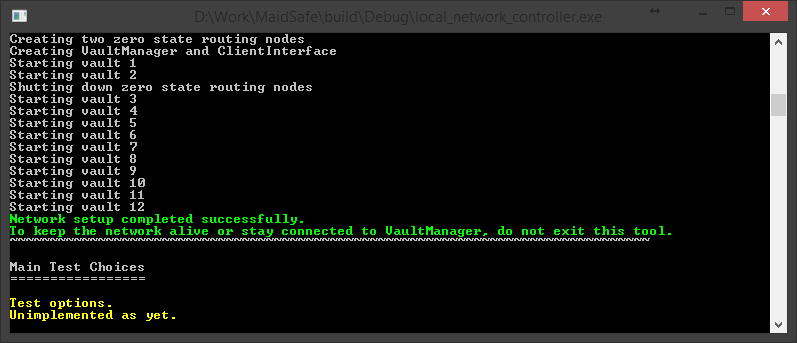
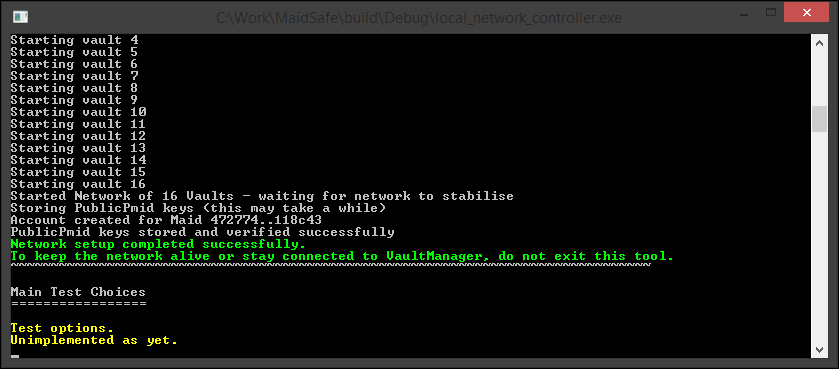
Updated local network controller images and added bootstrap options to auth example docs.

Changed region(s): [[0.0, 0.0, 1.0, 1.0], [0.0, 0.758, 0.1807, 0.8455], [0.0, 0.8746, 0.2108, 0.9329]]

diff --git a/gitbook_src/en/002_self_authentication/requirements.md b/gitbook_src/en/002_self_authentication/requirements.md
@@ -1,22 +1,13 @@
 # Requirements
 
 
-### API Project Libraries & local_network_controller:
+### API Project:
 
+Please refer to the [Network Setup - Requirements](./../001_network_setup/requirements.md) to get your build environment set up for the MaidSafe Super-Project.
 
-Please refer to the [Network Setup - Requirements](001_network_setup/requirements.md) to get your build environment set up for the MaidSafe Super-Project.
+This example requires the following target to be built from the MaidSafe Super-Project.
 
-This example requires two targets to be built from the MaidSafe Super-Project.
-
-* `maidsafe_api` - This will get the API project library built and ready to use from any external project
-* `local_network_controller` - As seen in the Network Setup example, this target currently helps us run a local test network on a single machine we can use for examples to run on and function.
-
-
-Make sure to have the `local_network_controller` up and running. You should leave it running with the following message displayed
-
-
-<Image>
-
+* `maidsafe_api` - This will get the API project library built and ready to use from any external project.
 
 
 ### [MaidSafe-Examples](https://github.com/maidsafe/maidsafe-examples) Source Code
@@ -28,3 +19,34 @@ Now from somewhere outside the Examples project root we need to run:
     cmake -H<path to MaidSafe-Examples/code> -Bbuild_maidsafe_examples -DMAIDSAFE_BINARY_DIR=<path to maidsafe Super-Project build folder>
 
 Go ahead and build the `authentication` target from the examples project.
+
+
+# Network Options
+
+### Connect to the MaidSafe Testnet
+
+Requires no setup for now (yay!). This is currently the default option that any client code will use until the network is live. Testnet bootstrap endpoints are hardcoded in the submodule libraries to achieve this functionality.
+
+With the testnet being, well... "a **test** network", please do be aware that it might not be stable and functional 24/7. If you wish to run the example on the Testnet, do check the bootstrap conncectivity status via the following link to make sure there aren't any problems on the testnet before connecting to it.
+
+[Testnet Status](http://visualiser.maidsafe.net:8080/testnet-status)
+
+^^ Status page will be auto updated once every 10 minutes to give the latest connectivity status.
+
+
+
+### Run Your Own Small, Local Testnet
+
+This requires a small setup process (*sad*).
+
+* `local_network_controller` - As seen in the [Network Setup](./../001_network_setup/intro.md) example, this target currently helps us run a local test network on a single machine we can use for examples to run on and function.
+
+
+Make sure to have the `local_network_controller` up and running. You should leave it running with the following message displayed
+
+![Local Network Controller - Network Started](./../001_network_setup/img/network_started.PNG)
+
+* This tool will generate a file named `local_network_bootstrap.dat` in the same folder as the tool's executable. Copy this file to the folder that contains the `authentication` example executable.
+* Finally rename the file we copied into the `authentication` example's executable folder as `bootstrap_override.dat`
+
+Running the example now will make it use the `bootstrap_override.dat` file it finds in its own folder and thereby connect to the Local Network on the same machine. To switch back to using the testnet, you just need to stop the running example, remove the `bootstrap_override.dat` file, then run the example again.

diff --git a/gitbook_src/en/001_network_setup/local_network_setup.md b/gitbook_src/en/001_network_setup/local_network_setup.md
@@ -2,7 +2,7 @@
 
 So now that you have the build environment set up on your machine, the target we require for this example is '**local_network_controller**'. This serves as a client to connect to the vault manager and start the network with a bunch of vaults which we can then connect to in future examples.
 
-* Go ahead and build the target 'local_network_controller'
+* Go ahead and build the target `local_network_controller`
 * Run the tool and you should see something like:
 
 > Tip: If you want to see detailed logging info, you can pass `--log_* V` when invoking the tool.  For full logging options, see [this wiki page](https://github.com/maidsafe/MaidSafe/wiki/Logging-Options#invoking-logging-arguments).
@@ -12,12 +12,6 @@ So now that you have the build environment set up on your machine, the target we
 For this example we are going to go with option "1". Hit "1" and Enter. This lets us start a new network on this machine.
 
 You can provide custom settings where applicable for the various options in the tool such as "Path to vault Executable" or "Number of Vaults to run the network with". Following the default options, you should see the tool function such as
-
-![Local Network Controller - Vault Manager Root Path](./img/vault_manager_root.PNG)
-
-![Local Network Controller - Vault App Path](./img/vault_executable.PNG)
-
-![Local Network Controller - Listening port](./img/listening_port.PNG)
 
 ![Local Network Controller - Vault Count](./img/vaults_count.PNG)
 
